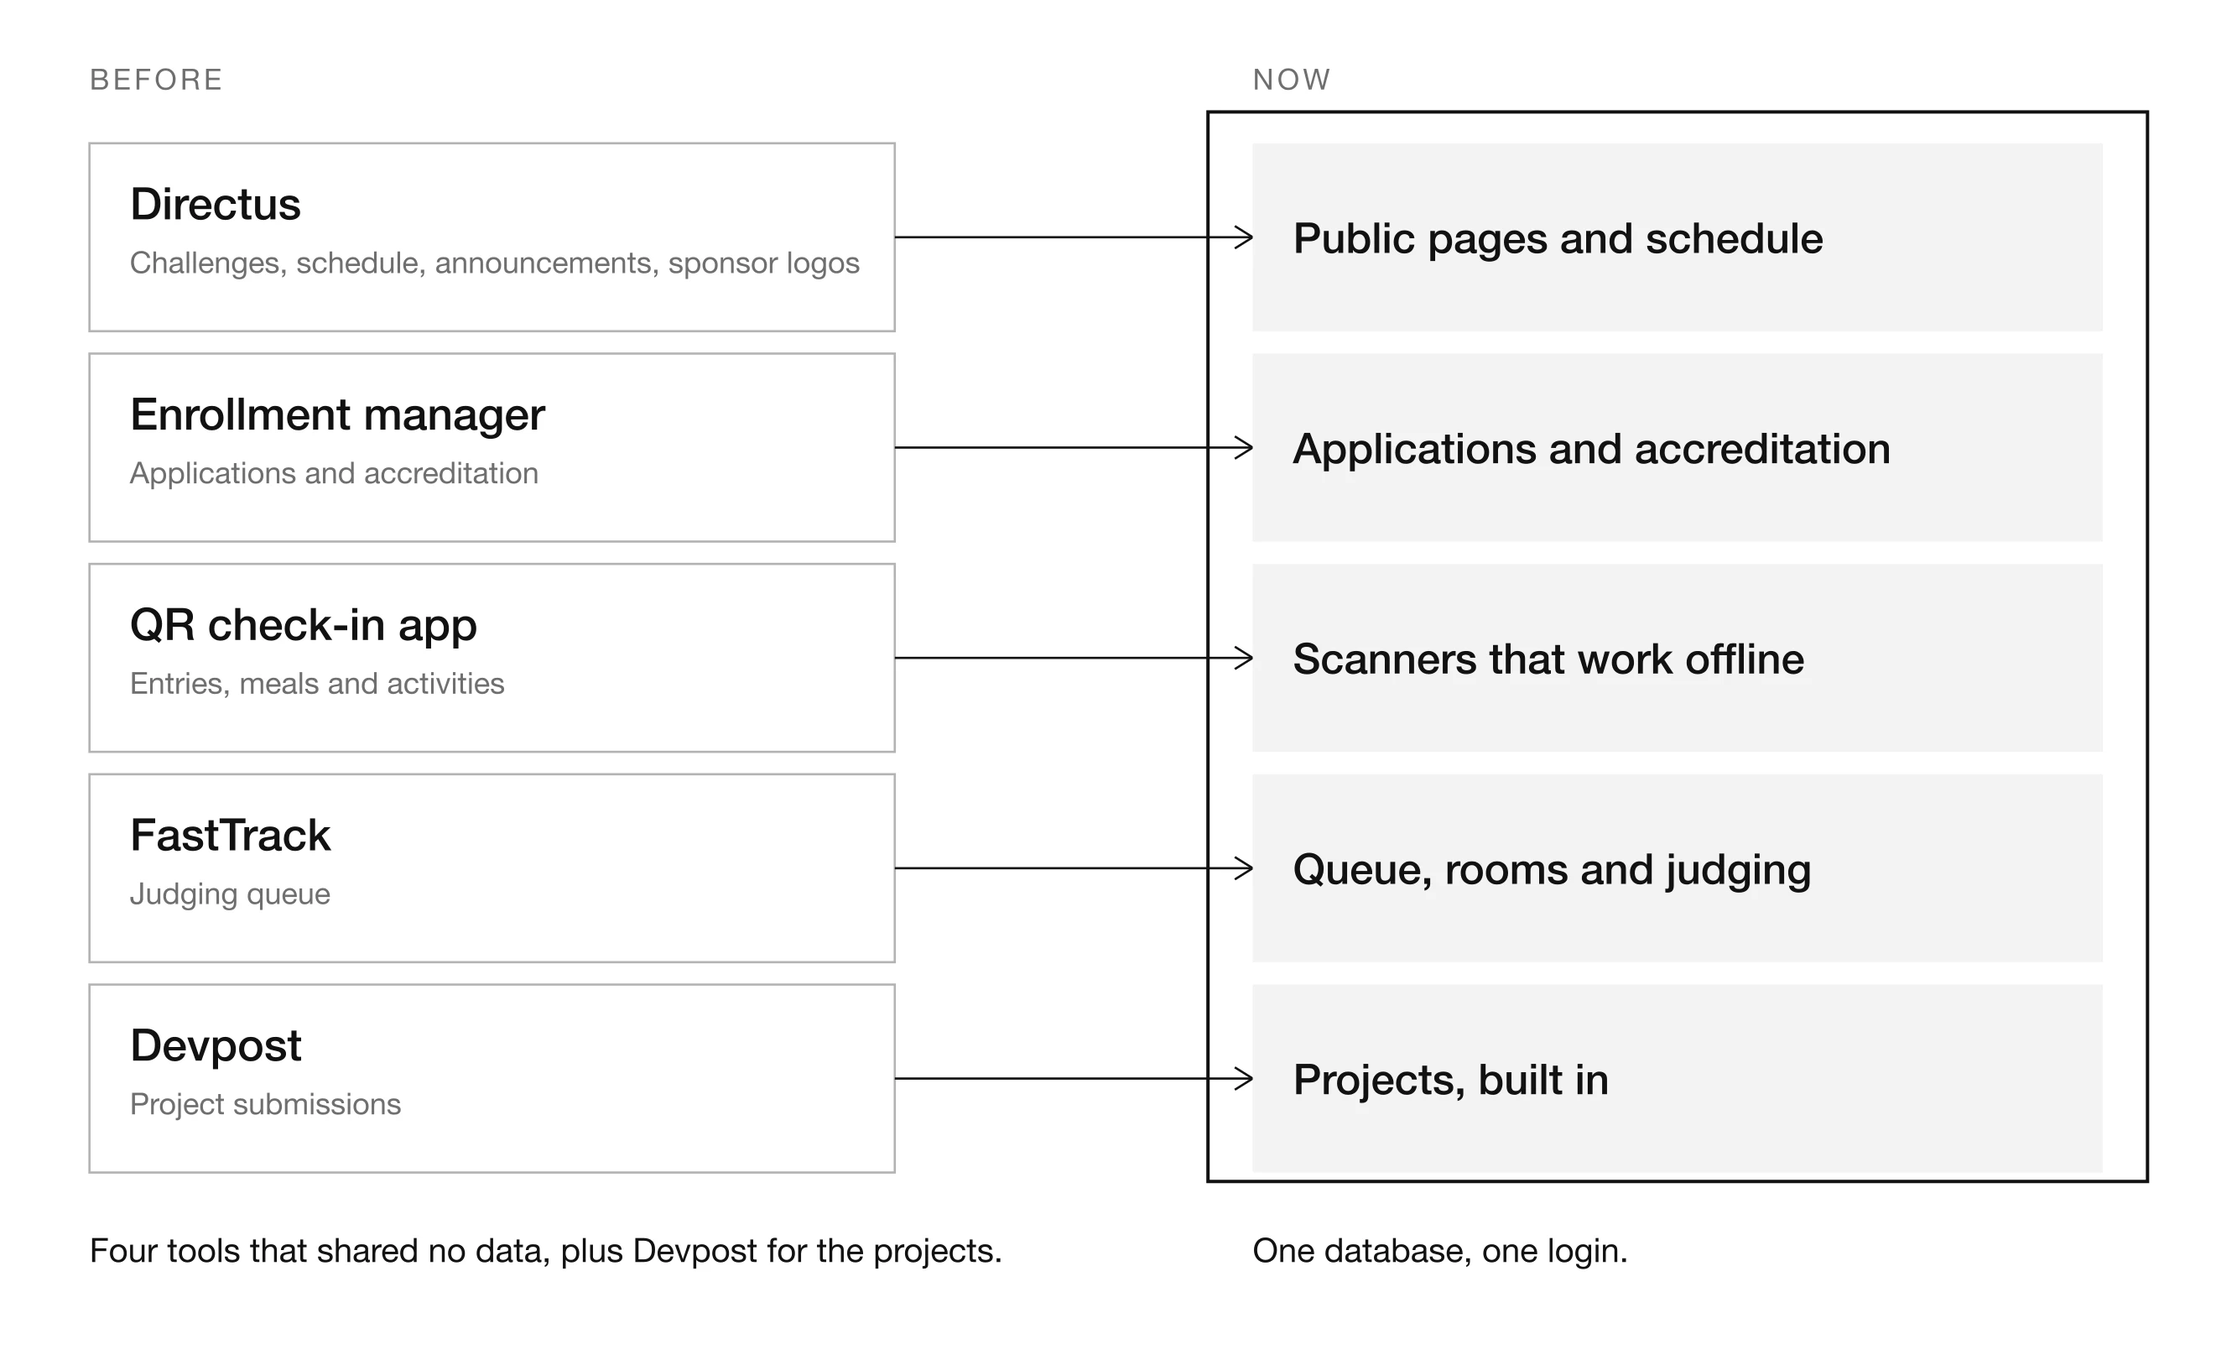
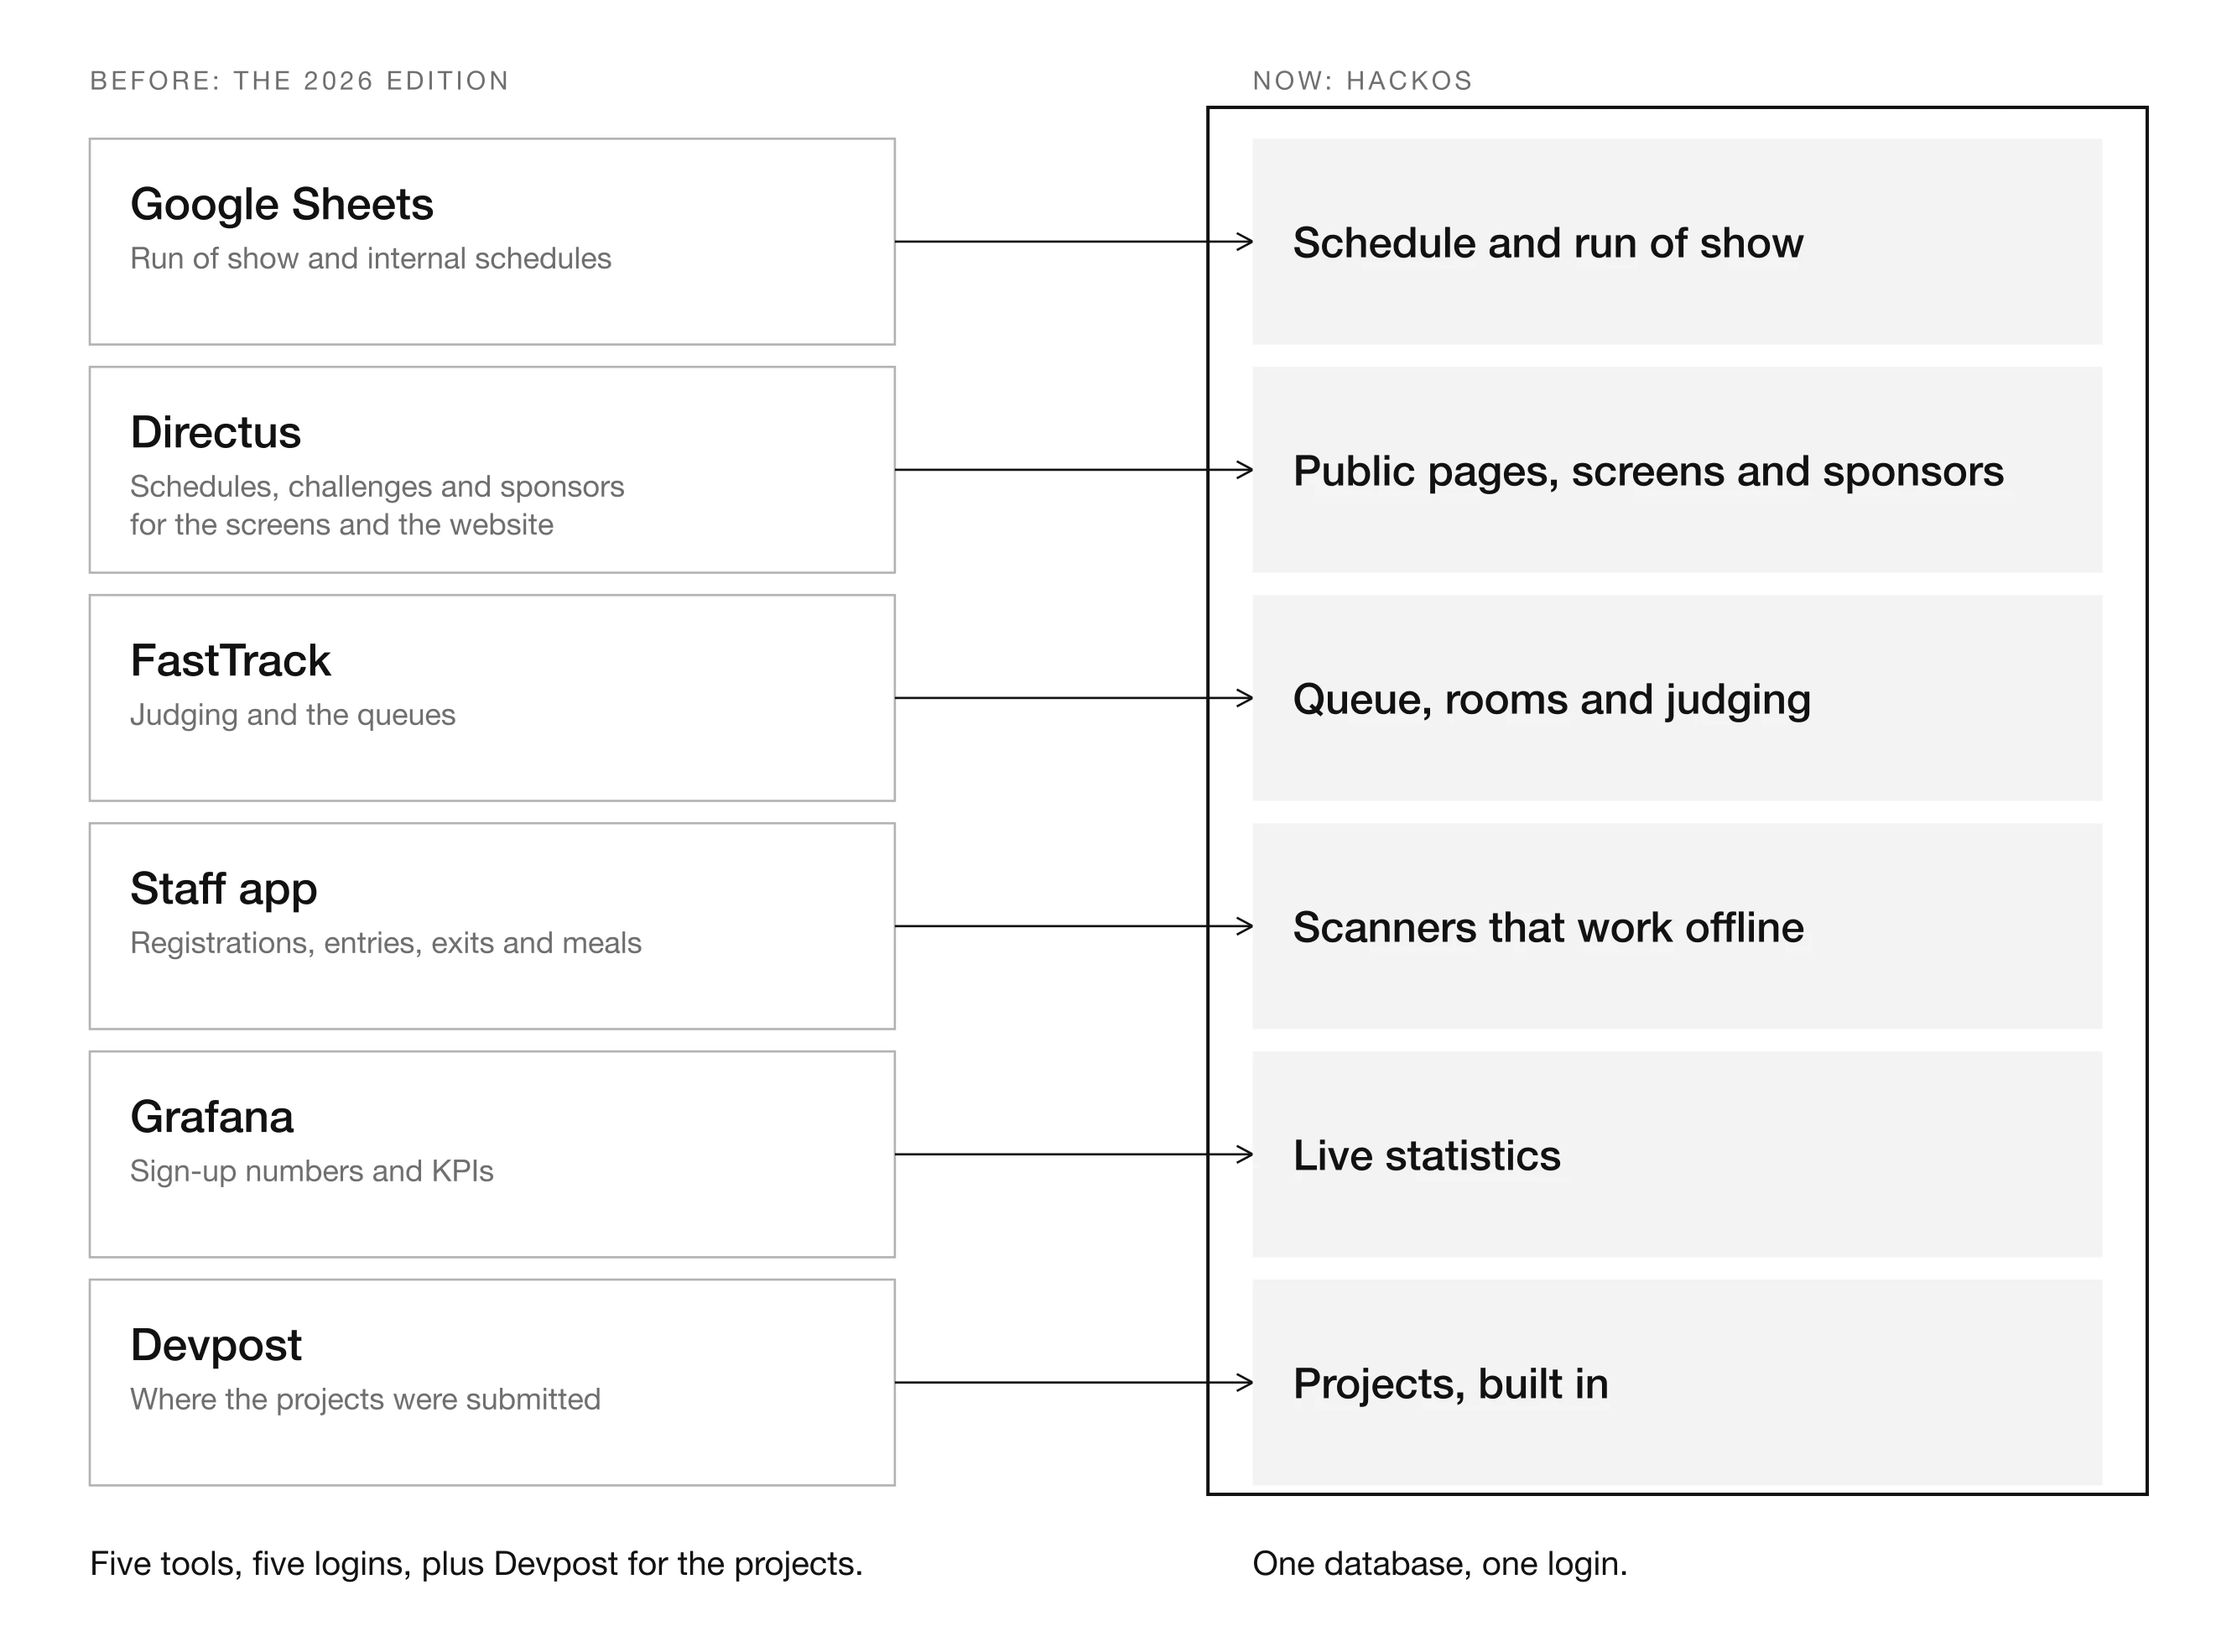
docs: rework the hackOS page's story and architecture notes
- Rebuild "Why it exists" from what happened: two of the 2026 tools were
  mine (the staff app and FastTrack), plus the five tools and Devpost, and
  redraw the diagram with the talk's tools and what each became
- "Plan first": four editions of postmortems, the sponsors' FastTrack
  feedback, and the plan as an MVP with the polish as the long journey
- Explain why uploads only go through the API, and the shared cache
- Cut personal-opinion filler, the DNS aside and the unclear joke
- Credit Samuel for the design system, say the repo went public on
  September 15th, and add more tags

diff --git a/src/data/projects.ts b/src/data/projects.ts
@@ -57,7 +57,7 @@ export const projects: Project[] = [
     "slug": "hackos",
     "title": "hackOS",
     "description": "The platform HackUDC runs on: applications, check-in, offline scanners, the judging queue and the venue screens on one database, replacing four tools.",
-    "longDescription": "hackOS is the platform HackUDC runs on. Applications, check-in, meals, projects, judging rooms, announcements and the screens around the venue all share one database. Before, they were separate tools that shared nothing.\n\nI started it on July 3rd and it's public, under the AGPL. As I write this, on November 7th, it has 3,306 commits, 965 merged pull requests and about 330,000 lines of TypeScript. What it does on event day is in the [talk I gave at CoruñaWTF](/blog/organizing-an-event-for-600-people). This page is about why it exists, how it's put together and why I think the design holds up.",
+    "longDescription": "hackOS is the platform HackUDC runs on. Applications, check-in, meals, projects, judging rooms, announcements and the screens around the venue all share one database. Before, they were separate tools that shared nothing.\n\nI started it on July 3rd and it's public, under the AGPL. As I write this, on November 7th, it has 3,306 commits, 965 merged pull requests and about 330,000 lines of TypeScript. What it does on event day is in the [talk I gave at CoruñaWTF](/blog/organizing-an-event-for-600-people). This page is about why it exists, how it's put together and what it's built to withstand.",
     "highlights": [
       "Three apps and one database: a Fastify API with 20 modules, a Next.js web app and an Expo mobile app, all on Postgres",
       "Raw SQL and no ORM. Migrations are checksummed, so one that has been applied can never be edited",
@@ -84,27 +84,21 @@ export const projects: Project[] = [
           },
           {
             "type": "p",
-            "text": "HackUDC ran on a pile of tools that didn't talk to each other. Directus held the public side: challenges, schedule, announcements and the sponsor logos. An enrollment manager handled applications and accreditation, a QR app did check-in, and FastTrack ran the judging. Projects came in through Devpost. In the talk I said five logins, and the plan I started from says four systems. Pick whichever number annoys you more."
+            "text": "At HackUDC 2026, two of the tools the event ran on were mine. I built the [staff app](/projects/hackudc-app), for check-ins, meals and attendance, on top of the registration backend that already existed. And during the event itself I locked myself away and wrote [FastTrack](/projects/fasttrack), the judging queue, in about three nights. It held up, and at one point I was staring at its dashboard every few minutes to check it was still alive. The full story is in [the post I wrote about that edition](/blog/behind-the-scenes-hackudc-2026)."
           },
           {
             "type": "p",
-            "text": "The number was never the problem. None of them shared data, so the same schedule and the same challenges got typed in more than one place. hackOS starts from one rule: its own database is the source of truth, and anything external only feeds it."
+            "text": "Around them there were three more: a spreadsheet with the run of show, Directus for the public schedule, the challenges and the sponsors, and Grafana for the numbers. Five tools and five logins, with Devpost on top of that for the projects, and none of them knew about the others, so a lot of the same data ended up duplicated between their databases."
           },
           {
             "type": "figure",
             "src": "/projects/hackos/media/tools-to-platform.webp",
-            "alt": "Diagram. On the left, the tools HackUDC ran on: Directus, an enrollment manager, a QR check-in app, FastTrack and Devpost. On the right, one box holding what replaced them: public pages and schedule, applications and accreditation, scanners that work offline, queue rooms and judging, and projects built in.",
-            "caption": "What each of the old tools became"
+            "alt": "Diagram. On the left, the tools the 2026 edition ran on: Google Sheets, Directus, FastTrack, a staff app, Grafana and Devpost. On the right, one box with what replaced each of them: schedule and run of show, public pages screens and sponsors, queue rooms and judging, scanners that work offline, live statistics, and projects built in.",
+            "caption": "What each of the tools became"
           },
           {
             "type": "p",
-            "text": "FastTrack is the one I know best, because I wrote it, in three nights, during the last edition. It held up, and it's trench code. The plan doesn't pretend otherwise: one line in the stories says \"FastTrack must improve\", and the schema carries comments about what it got wrong. It had a duplicate-sibling bug, where the same project could end up queued twice for a challenge, and the new schema rules that out with a unique constraint. And it couldn't tell you who had changed a score. Now every save is a row."
-          },
-          {
-            "type": "figure",
-            "src": "/projects/fasttrack/media/judge-view.webp",
-            "alt": "FastTrack's room view: the queue flow with the team presenting, the standby teams and the upcoming queue, next to the scoring form.",
-            "caption": "FastTrack's room view, from HackUDC 2026"
+            "text": "hackOS is what came next: one database and one login, so every piece of data lives in one place."
           }
         ]
       },
@@ -113,17 +107,16 @@ export const projects: Project[] = [
         "blocks": [
           {
             "type": "p",
-            "text": "Before the first line of code there's a `plan/` folder, carried over from earlier attempts. The first commit is only that folder, and its message says \"from previous attempts\", so no, this wasn't the first try."
+            "text": "Before the first line of code there was a `plan/` folder. HackUDC had four editions behind it, and the team had written postmortems of them. We had also asked the sponsors who used FastTrack in the last edition for their feedback. So we already knew, at least, what a system for our event needed to do."
           },
           {
             "type": "p",
-            "text": "In it are 59 user stories, numbered H1 to H60 (H6 was retired), and they're the source of truth. If another doc disagrees with them, the stories win. Next to them is a short list of rules that aren't up for debate:"
+            "text": "It holds 59 user stories, numbered H1 to H60 (H6 was retired), and they're the source of truth: if another doc disagrees with a story, the story wins. Next to them is a short list of rules that aren't up for debate:"
           },
           {
             "type": "list",
             "items": [
               "Permissions come from capabilities, not roles. A judge who is also competing doesn't switch accounts.",
-              "A ticket and a badge are different things.",
               "A no-show is a human decision. Nothing expels a team silently.",
               "A team is never called into two rooms at once if it shares a member.",
               "Scanners survive bad wifi: a local queue, and retries that are safe to repeat."
@@ -138,7 +131,7 @@ export const projects: Project[] = [
           },
           {
             "type": "p",
-            "text": "The plan also fixes the order of work: identity and permissions first, then the queue and judging, which the stories call non-negotiable, then everything else, with the mobile app last. The mobile app started eleven days in."
+            "text": "The plan only covered what an MVP needed, and it was blunt about its priorities: \"The queue block is non-negotiable. FastTrack must improve; the rest is optional.\" Identity and permissions came first, then the queue and judging, and the mobile app last. That MVP came together fast. Making it easy to use, feature-rich and full of small quality-of-life details has been the long journey, and it isn't over."
           },
           {
             "type": "p",
@@ -155,7 +148,7 @@ export const projects: Project[] = [
           },
           {
             "type": "p",
-            "text": "Underneath is the part I care about most. Postgres remembers everything that matters. Valkey is fast and disposable: it carries the realtime nudges, a shared cache and the clock that wakes the worker up. MinIO keeps the files. The API and the worker are the same code started in two modes, so the code that queues a job and the code that runs it can't drift apart."
+            "text": "Underneath, Postgres remembers everything that matters. Valkey is fast and disposable: it carries the realtime nudges, a shared cache and the clock that wakes the worker up. MinIO keeps the files. The API and the worker are the same code started in two modes, so the code that queues a job and the code that runs it can't drift apart."
           },
           {
             "type": "figure",
@@ -165,7 +158,11 @@ export const projects: Project[] = [
           },
           {
             "type": "p",
-            "text": "Postgres and Valkey can't be reached from outside at all, and of MinIO only the folder with the sponsor logos is public. One deployment serves exactly one hackathon: a second event is a second, completely separate copy of the stack, with its own database and secrets. That also means there's no multi-tenant code to get wrong."
+            "text": "Postgres and Valkey can't be reached from outside at all, and of MinIO only the folder with the sponsor logos is public. Everything people upload, like application files, CVs and profile photos, goes in and out through the API, never through a link to the storage. A link to a file works for whoever holds it, and it keeps working. When the API serves the file instead, it checks who is asking on every request, so a copied link is worthless to anyone else, and a change takes effect right away: someone stops sharing their CV and it stops being served, someone deletes their account and their files are deleted with it. The owner's id is part of every upload's key, so the API can tell whose file it is just from the key."
+          },
+          {
+            "type": "p",
+            "text": "One deployment serves exactly one hackathon: a second event is a second, completely separate copy of the stack, with its own database and secrets. That also means there's no multi-tenant code to get wrong."
           }
         ]
       },
@@ -174,7 +171,7 @@ export const projects: Project[] = [
         "blocks": [
           {
             "type": "p",
-            "text": "An event has a few moments where everything happens at once: registration opens, doors open, judging starts. These are the decisions I'd defend."
+            "text": "An event has a few moments where everything happens at once: registration opens, doors open, judging starts. These are the ideas the rest is built around."
           },
           {
             "type": "p",
